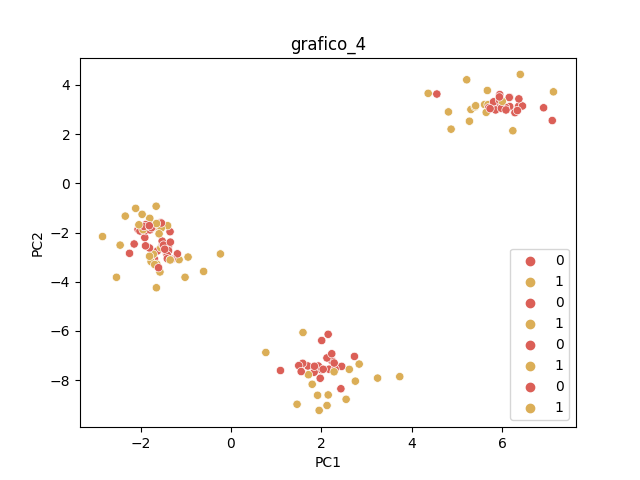
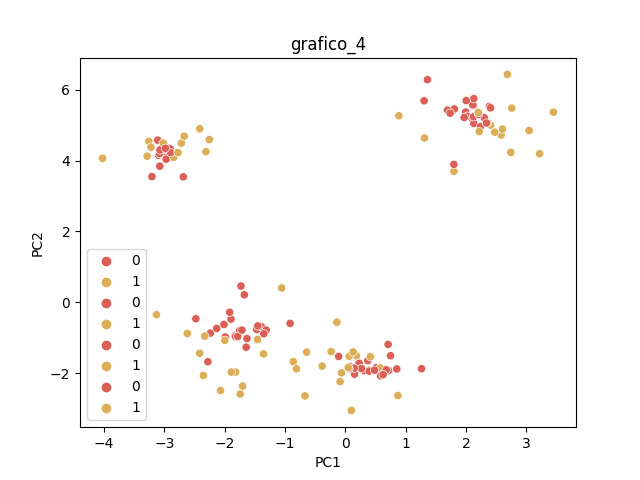
adicionando ferramentas novas de seleção

diff --git a/project/data_modelling.py b/project/data_modelling.py
@@ -5,7 +5,8 @@ import matplotlib.pyplot as plt
 
 # Pré-processamento dos Dados
 from sklearn.preprocessing import StandardScaler
-from sklearn.decomposition import PCA
+from sklearn.decomposition import PCA, KernelPCA
+from sklearn.discriminant_analysis import LinearDiscriminantAnalysis
 
 # Modelos Utilizados
 from sklearn.ensemble import RandomForestClassifier
@@ -37,20 +38,47 @@ def treat(n, dfs):
 
     # Standardizing
     scaler = StandardScaler()
-    X_train_norm = scaler.fit_transform(X_train)
-    X_test_norm = scaler.transform(X_test)
+    X_train_pad = scaler.fit_transform(X_train)
+    X_test_pad = scaler.transform(X_test)
     
-    # Principal Component Analysis
-    pca = PCA()
-    X_train = pca.fit_transform(X_train_norm)
-    X_test = pca.transform(X_test_norm)
-    print("--------------------------------------------------")
-    return X_train, X_test, y_train, y_test
+    return X_train_pad, X_test_pad, y_train, y_test
 
 def selectors(df, obj):
-    pass
+    '''
+    Entradas:
+    df: Tupla com X_train padronizado, X_test padronizado, y_train, y_test
+    obj: String definindo o tipo de modelo
+    
+    Saídas:
+    Tupla com X_train decomposto, X_test decomposto, y_train, y_test   
+    '''
+    
+    X_train_pad, X_test_pad, y_train, y_test = df
 
-def models(df, obj):
+    # Principal Component Analysis
+    if obj == "pca":
+        pca = PCA()
+        X_train = pca.fit_transform(X_train_pad)
+        X_test = pca.transform(X_test_pad)
+        print("Decomposição: PCA")
+
+    if obj == "kpca":
+        kpca = KernelPCA()
+        X_train = kpca.fit_transform(X_train_pad)
+        X_test = kpca.transform(X_test_pad)
+        print("Decomposição: Kernel PCA")
+
+    if obj == "lda":
+        lda = LinearDiscriminantAnalysis()
+        X_train = lda.fit_transform(X_train_pad, y_train)
+        X_test = lda.transform(X_test_pad)
+        print("Decomposição: LDA")
+
+    print("--------------------------------------------------")
+
+    return X_train, X_test, y_train, y_test
+
+def models(df, obj, selector):
     '''
     Entradas:
     df: Tupla com X_train, X_test, y_train, y_test
@@ -78,7 +106,7 @@ def models(df, obj):
                       #'n_estimators': [25, 50, 100], # Retirar
                       'criterion': ["gini", 'entropy']}
         
-        modelo = GridSearchCV(modelo, parametros, n_jobs = -1, cv = 3, scoring = "roc_auc")
+        modelo = GridSearchCV(modelo, parametros, n_jobs = -1, cv = 2, scoring = "precision")
         modelo.fit(X_train, y_train)
         print("Modelo: Random Forest")
     
@@ -91,9 +119,17 @@ def models(df, obj):
                       #'alpha': [0.0001, 0.05],
                       'learning_rate': ['constant','adaptive']}
 
-        modelo = GridSearchCV(modelo, parametros, n_jobs = -1, cv = 3, scoring = "roc_auc")
+        modelo = GridSearchCV(modelo, parametros, n_jobs = -1, cv = 2, scoring = "precision")
         modelo.fit(X_train, y_train)
         print("Modelo: Multi-Layer Perceptron")
+
+    if obj == "svm":
+        modelo = SVC(random_state = 42)
+        parametros = {'kernel' : ["poly", 'linear', 'rbf', 'sigmoid', 'precomputed']}
+
+        modelo = GridSearchCV(modelo, parametros, n_jobs = -1, cv = 2, scoring = "precision")
+        modelo.fit(X_train, y_train)
+        print("Modelo: Support Vector Classifier")
 
     # Predictions
     y_pred = modelo.predict(X_test)
@@ -107,4 +143,4 @@ def models(df, obj):
     print("AUC:", round(auc,4))
     print("Acurácia:", round(acc,4))
     print("--------------------------------------------------")
-    return [prec, auc, acc, obj]
+    return [prec, auc, acc, obj, selector]

diff --git a/project/main.py b/project/main.py
@@ -8,7 +8,7 @@ import warnings
 import time
 import pandas as pd
 
-settings = Dynaconf(core_loaders=["JSON"], settings_files="settings.json")
+settings = Dynaconf(core_loaders=["JSON"], settings_files="project/settings.json")
 
 if __name__ == '__main__':
 
@@ -31,14 +31,16 @@ if __name__ == '__main__':
     tabela = []
     for i in range(5):
         df = treat(i, dfs) # tratamento prévio da base de i anos pré-falência
-        create_plot(i, df[0], df[2])
-        for j in settings.models: 
-            linha = models(df, j) # estimação dos modelos em cima desta base
-            linha.append(i+1)
-            tabela.append(linha)
+        create_plot(i, df[0], df[2]) # cria plots do t-SNE
+        for j in settings["SELECTORS"]:
+            df_decomp = selectors(df, j)
+            for k in settings["MODELS"]: 
+                linha = models(df_decomp, k, j) # estimação dos modelos em cima desta base
+                linha.append(i+1)
+                tabela.append(linha)
     
     df = pd.DataFrame(tabela) # criação de tabela com as métricas de avaliação para cada modelo em cada base
-    df.rename(columns = {0: "Precisão", 1: "AUC", 2: "Acurácia", 3: "Modelo", 4: "Anos"}, inplace = True)
+    df.rename(columns = {0: "Precisão", 1: "AUC", 2: "Acurácia", 3: "Modelo", 4: "Seletor", 5: "Anos"}, inplace = True)
     df = round(df, 4)
 
     print("\nResultados Consolidados:")

diff --git a/project/data_import.py b/project/data_import.py
@@ -2,6 +2,7 @@ import pandas as pd
 
 def get_data():
 
+    print("--------------------------------------------------")
     print("Iniciando Importação...")
     data = dict()
     # Features
@@ -30,5 +31,7 @@ def get_data():
     print("Número de Empresas (Features):", len(features.keys())) # Numero de empresas
     print("Empresas Faltando:", miss)
     
-    print("Finalizando Importação...\n")
+    print("Finalizando Importação...")
+    print("--------------------------------------------------")
+
     return data
